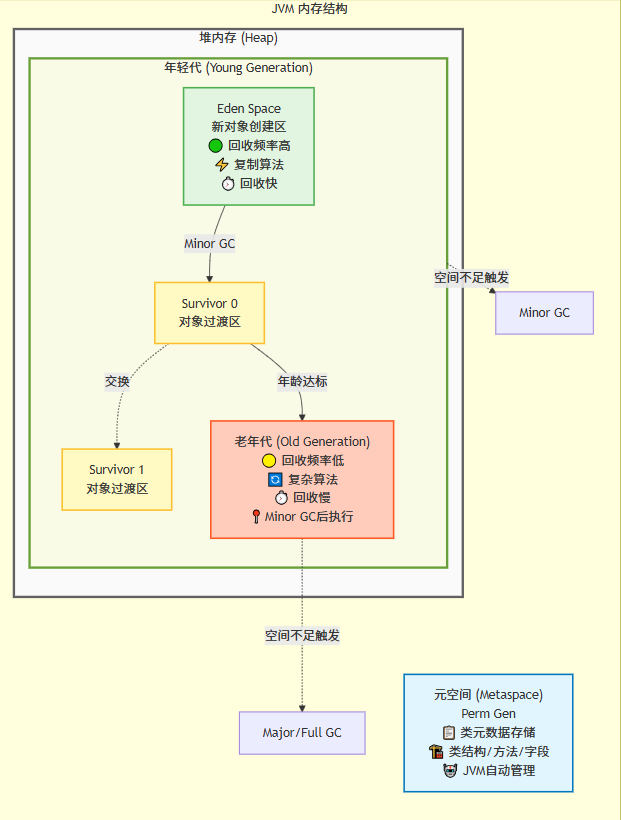
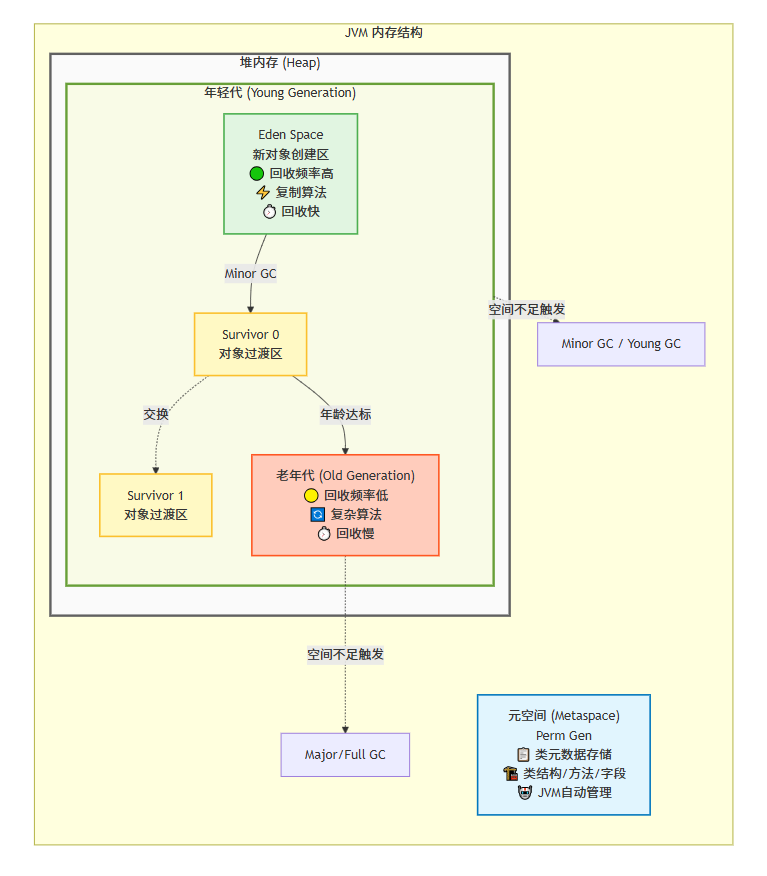
GC

diff --git a/docs/java/jvmgc/JVMGC.md b/docs/java/jvmgc/JVMGC.md
@@ -18,50 +18,43 @@ GC线程也是守护线程的一种，用于回收不再使用的对象，并释
 
 ![JVM内存结构图](jvm_memory.png)
 
-JVM内存结构图mermaid
+??? note "JVM内存结构图mermaid"
 
-```mermaid
-graph TB
-    subgraph JVM["JVM 内存结构"]
-        direction TB
+    ```mermaid
+    graph TB
+        subgraph JVM["JVM 内存结构"]
+            direction TB
 
-        subgraph Heap["堆内存 (Heap)"]
-            direction LR
+            subgraph Heap["堆内存 (Heap)"]
+                direction LR
 
-            subgraph Young["年轻代 (Young Generation)"]
-                Eden["Eden Space<br/>新对象创建区<br/>🟢 回收频率高<br/>⚡ 复制算法<br/>⏱️ 回收快"]
-                S0["Survivor 0<br/>对象过渡区"]
-                S1["Survivor 1<br/>对象过渡区"]
+                subgraph Young["年轻代 (Young Generation)"]
+                    Eden["Eden Space<br/>新对象创建区<br/>🟢 回收频率高<br/>⚡ 复制算法<br/>⏱️ 回收快"]
+                    S0["Survivor 0<br/>对象过渡区"]
+                    S1["Survivor 1<br/>对象过渡区"]
 
-                Eden -->|"Minor GC"| S0
-                S0 -.->|"交换"| S1
-                S0 -->|"年龄达标"| Old
+                    Eden -->|"Minor GC"| S0
+                    S0 -.->|"交换"| S1
+                    S0 -->|"年龄达标"| Old
+                end
+
+                Old["老年代 (Old Generation)<br/>🟡 回收频率低<br/>🔄 复杂算法<br/>⏱️ 回收慢"]
             end
 
-            Old["老年代 (Old Generation)<br/>🟡 回收频率低<br/>🔄 复杂算法<br/>⏱️ 回收慢<br/>📍 Minor GC后执行"]
+            Meta["元空间 (Metaspace)<br/>Perm Gen<br/>📋 类元数据存储<br/>🏗️ 类结构/方法/字段<br/>🤖 JVM自动管理"]
+
+            Young -.->|"空间不足触发"| GC1["Minor GC / Young GC"]
+            Old -.->|"空间不足触发"| GC2["Major/Full GC"]
+
+            style Eden fill:#e1f5e1,stroke:#4caf50,stroke-width:2px
+            style S0 fill:#fff9c4,stroke:#fbc02d,stroke-width:2px
+            style S1 fill:#fff9c4,stroke:#fbc02d,stroke-width:2px
+            style Old fill:#ffccbc,stroke:#ff5722,stroke-width:2px
+            style Meta fill:#e1f5fe,stroke:#0277bd,stroke-width:2px
+            style Young fill:#f9fbe7,stroke:#689f38,stroke-width:3px
+            style Heap fill:#fafafa,stroke:#616161,stroke-width:3px
         end
-
-        Meta["元空间 (Metaspace)<br/>Perm Gen<br/>📋 类元数据存储<br/>🏗️ 类结构/方法/字段<br/>🤖 JVM自动管理"]
-
-        Young -.->|"空间不足触发"| GC1["Minor GC"]
-        Old -.->|"空间不足触发"| GC2["Major/Full GC"]
-
-        style Eden fill:#e1f5e1,stroke:#4caf50,stroke-width:2px
-        style S0 fill:#fff9c4,stroke:#fbc02d,stroke-width:2px
-        style S1 fill:#fff9c4,stroke:#fbc02d,stroke-width:2px
-        style Old fill:#ffccbc,stroke:#ff5722,stroke-width:2px
-        style Meta fill:#e1f5fe,stroke:#0277bd,stroke-width:2px
-        style Young fill:#f9fbe7,stroke:#689f38,stroke-width:3px
-        style Heap fill:#fafafa,stroke:#616161,stroke-width:3px
-    end
-```
-
-**图解说明:**
-
-- 🟢 **年轻代**: 新对象首先在Eden区创建,经过多次Minor GC后存活的对象会移动到Survivor区
-- 🟡 **老年代**: 存活时间长的对象会从年轻代晋升到老年代,采用更复杂的GC算法
-- 📋 **元空间**: 独立于堆内存,存储类的元数据信息,由JVM自动管理
-
+    ```
 ### 🚁 年轻代
 
 Eden Space + Survivor 0 + Survivor 1
@@ -80,27 +73,7 @@ Old Gen
 
 Perm Gen
 
-存储类的元数据(类的结构、方法、字段等信息),由Java虚拟机自动管理元空间的内存。
-
-### 🚁 JVM内存结构图
-
-
-
-**对象生命周期流向:**
-
-```mermaid
-flowchart LR
-    A[新对象创建] --> B[Eden区]
-    B -->|Minor GC| C[Survivor区]
-    C -->|年龄达标| D[老年代]
-    D -->|Full GC| E[被回收]
-
-    style A fill:#c8e6c9,stroke:#388e3c
-    style B fill:#e1f5e1,stroke:#4caf50
-    style C fill:#fff9c4,stroke:#fbc02d
-    style D fill:#ffccbc,stroke:#ff5722
-    style E fill:#ffcdd2,stroke:#d32f2f
-```
+存储类的元数据(类的结构、方法、字段等信息)，由Java虚拟机自动管理元空间的内存。
 
 ### 🚁 需要关注的指标
 